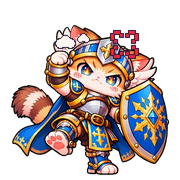
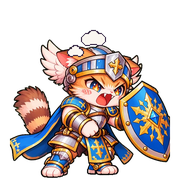
Angry emoji: smoother loop, remove the anger mark
The previous version jumped because the return trip skipped up to 8
video frames per step and the frame timings were uneven, plus a
tremble and a jolt on top. Now uses video frames 8-29 (foot up, stomp,
shouting), sampled densely around the stomp, played forward and back
with each frame shown for as long as the video takes to reach the next
one, so the speed is even. Tremble, jolt and the anger mark removed;
steam puffs move by time instead of by frame. 20 frames, 1 s x 4.

Claude-Session: https://claude.ai/code/session_01CqN5TM8CtnKZx6KMXb1z93

diff --git a/line-stickers/animated-emoji/19-angry/make_angry.py b/line-stickers/animated-emoji/19-angry/make_angry.py
@@ -1,75 +1,55 @@
-"""Angry emoji: stomp from the start of the Kling clip, then the rage part, then back
-(so the foot lifts and stomps again each loop), plus pixel-art steam, a pulsing
-anger mark, a jolt on the stomp and a small tremble."""
+"""Angry emoji: the stomp and the rage part of the Kling clip, played forward and back
+at an even speed, plus pixel-art steam puffs."""
 import sys, os
 import numpy as np
 from PIL import Image, ImageDraw
-CUT, OUT = sys.argv[1], sys.argv[2]            # folder of green-removed frames in play order, output folder
-N, W = len(os.listdir(CUT)), 540                # frames, working canvas (3x of 180)
-IMPACT = 6                                      # frame where the foot lands
-# per-frame timing: hold the start pose and the stomp, quick foot swing, scaled to a 2 s loop
-RAW = [140, 70, 70, 55, 45, 45, 160] + [95]*7 + [80]*4 + [70]*2
-INK, RED, STEAM = (42, 26, 58, 255), (240, 36, 56, 255), (250, 246, 240, 255)
-frames = [Image.open(f"{CUT}/{k:02d}.png") for k in range(N)]
-box = (0, 30, 960, 948)                         # union bbox of the frames used
+SRC, OUT = sys.argv[1], sys.argv[2]            # folder of green-removed video frames (NNN.png), output folder
+W, LOOP_MS = 540, 1000                          # working canvas (3x of 180), one loop
+INK, STEAM = (42, 26, 58, 255), (250, 246, 240, 255)
+# video frames 8..29 (foot up -> stomp -> shouting), dense around the stomp, then back again
+FWD = [8, 9, 10, 11, 12, 14, 17, 20, 23, 26, 29]
+SEQ = FWD + FWD[-2:0:-1]                        # 20 frames, ping-pong
+SEQ = SEQ[4:] + SEQ[:4]                         # start on the stomp landing (the still LINE shows)
+# show each frame for as long as the video takes to reach the next one, so the speed is even
+gaps = [abs(SEQ[(k+1) % len(SEQ)] - SEQ[k]) for k in range(len(SEQ))]
+durs = [round(g * LOOP_MS / sum(gaps)) for g in gaps]
+durs[-1] += LOOP_MS - sum(durs)
+box = (0, 30, 960, 946)                         # union bbox of the frames used
 s = 0.5
 cw, ch = round((box[2]-box[0])*s), round((box[3]-box[1])*s)
-cx, cy = (W-cw)//2, W-6-ch                      # room above the head for the effects
+cx, cy = (W-cw)//2, W-6-ch                      # room above the head for the steam
 
 def head(f):
     """Centre of the silver helmet plate, in 180px grid coordinates."""
-    a = np.asarray(f).astype(int); r, g, b, al = a[..., 0], a[..., 1], a[..., 2], a[..., 3]
+    a = np.asarray(f).astype(int); al = a[..., 3]
     mx, mn = a[..., :3].max(2), a[..., :3].min(2)
     plate = (al > 200) & (mn > 130) & (mx < 235) & (mx - mn < 22)
     plate[450:] = False; plate[:, :200] = False; plate[:, 800:] = False
     ys, xs = np.nonzero(plate)
     return (cx + (xs.mean()-box[0])*s) / 3, (cy + (ys.mean()-box[1])*s) / 3
 
-VEIN = [".##...##.",
-        "#..#.#..#",
-        "#.......#",
-        ".#.....#.",
-        ".........",
-        ".#.....#.",
-        "#.......#",
-        "#..#.#..#",
-        ".##...##."]
-
-def anger_mark(g, x, y, big):
-    """Pulsing 'anger vein' symbol; the big phase pushes each corner 1px outward."""
-    for pass_, col in ((1, INK), (0, RED)):
-        for r, row in enumerate(VEIN):
-            for c, ch_ in enumerate(row):
-                if ch_ != '#': continue
-                ox = (1 if c > 4 else -1) if big else 0
-                oy = (1 if r > 4 else -1) if big else 0
-                px, py = x + (c-4)*3 + ox, y + (r-4)*3 + oy
-                g.rectangle([px-pass_, py-pass_, px+2+pass_, py+2+pass_], fill=col)
-
-def steam(g, x, y, age):
-    """A puff that rises and grows, drawn with an ink outline."""
-    r = 3 + age
-    y -= age * 2
+def steam(g, x, y, p):
+    """A puff that rises and grows over its life p in [0, 1), drawn with an ink outline."""
+    r = round(3 + 4*p)
+    y -= round(10*p)
     for rad, fill in ((r+1, INK), (r, STEAM)):
         for ox, oy, k in ((0, 0, 0), (-r, 2, 1), (r, 2, 1)):
             rr = rad - k
             g.ellipse([x+ox-rr, y+oy-rr, x+ox+rr, y+oy+rr], fill=fill)
 
-out = []
-for k, f in enumerate(frames):
-    j = 3 if k % 2 else 0                       # 1px tremble on the 180 grid
-    jy = {IMPACT: 6, IMPACT+1: -3}.get(k, 0)    # jolt when the foot lands
-    if k == IMPACT: j = -6
+src = {i: Image.open(f"{SRC}/{i:03d}.png") for i in set(SEQ)}
+heads = {i: head(f) for i, f in src.items()}
+out, t = [], 0
+for k, i in enumerate(SEQ):
     c = Image.new('RGBA', (W, W), (0, 0, 0, 0))
-    m = f.crop(box).convert('RGBa').resize((cw, ch), Image.LANCZOS).convert('RGBA')
-    c.alpha_composite(m, (cx + j, cy + jy))
-    hx, hy = head(f); hx = round(hx + j/3); hy = round(hy + jy/3)
+    m = src[i].crop(box).convert('RGBa').resize((cw, ch), Image.LANCZOS).convert('RGBA')
+    c.alpha_composite(m, (cx, cy))
+    hx, hy = map(round, heads[i])
     lo = Image.new('RGBA', (W//3, W//3), (0, 0, 0, 0)); g = ImageDraw.Draw(lo)
-    for start, dx, dy in ((0, -30, -10), (2, -12, -18)):     # two puffs, 2 frames apart
-        age = (k - start) % 5
-        steam(g, hx+dx, hy+dy, age)
-    anger_mark(g, hx+28, hy-12, big=(k // 2) % 2 == 0)
+    for phase, dx, dy in ((0.0, -30, -10), (0.5, -12, -18)):  # two puffs, half a cycle apart
+        steam(g, hx+dx, hy+dy, (t / 500 + phase) % 1)            # by time: 2 puffs per loop each
     c.alpha_composite(lo.resize((W, W), Image.NEAREST)); out.append(c)
+    t += durs[k]
 
 def save(frs, path, durs, loop):
     sz = frs[0].width
@@ -80,10 +60,9 @@ def save(frs, path, durs, loop):
     q[0].save(path, save_all=True, append_images=q[1:], duration=durs, loop=loop, disposal=0, blend=0, optimize=True)
     print(os.path.basename(path), len(frs), 'frames', sum(durs), 'ms x', loop, os.path.getsize(path)//1024, 'KB')
 
-durs = [round(d * 2000 / sum(RAW)) for d in RAW]
-durs[-1] += 2000 - sum(durs)                    # exactly 2 s per loop
 f180 = [o.convert('RGBa').resize((180, 180), Image.LANCZOS).convert('RGBA') for o in out]
 for i, f in enumerate(f180): f.save(f"{OUT}/frames/{i+1:02d}.png")
-save(f180, f"{OUT}/angry.png", durs, 2)
+print('frames', SEQ); print('ms', durs)
+save(f180, f"{OUT}/angry.png", durs, 4)
 save([o.convert('RGBa').resize((360, 360), Image.LANCZOS).convert('RGBA') for o in out],
      f"{OUT}/preview-angry.png", durs, 0)
